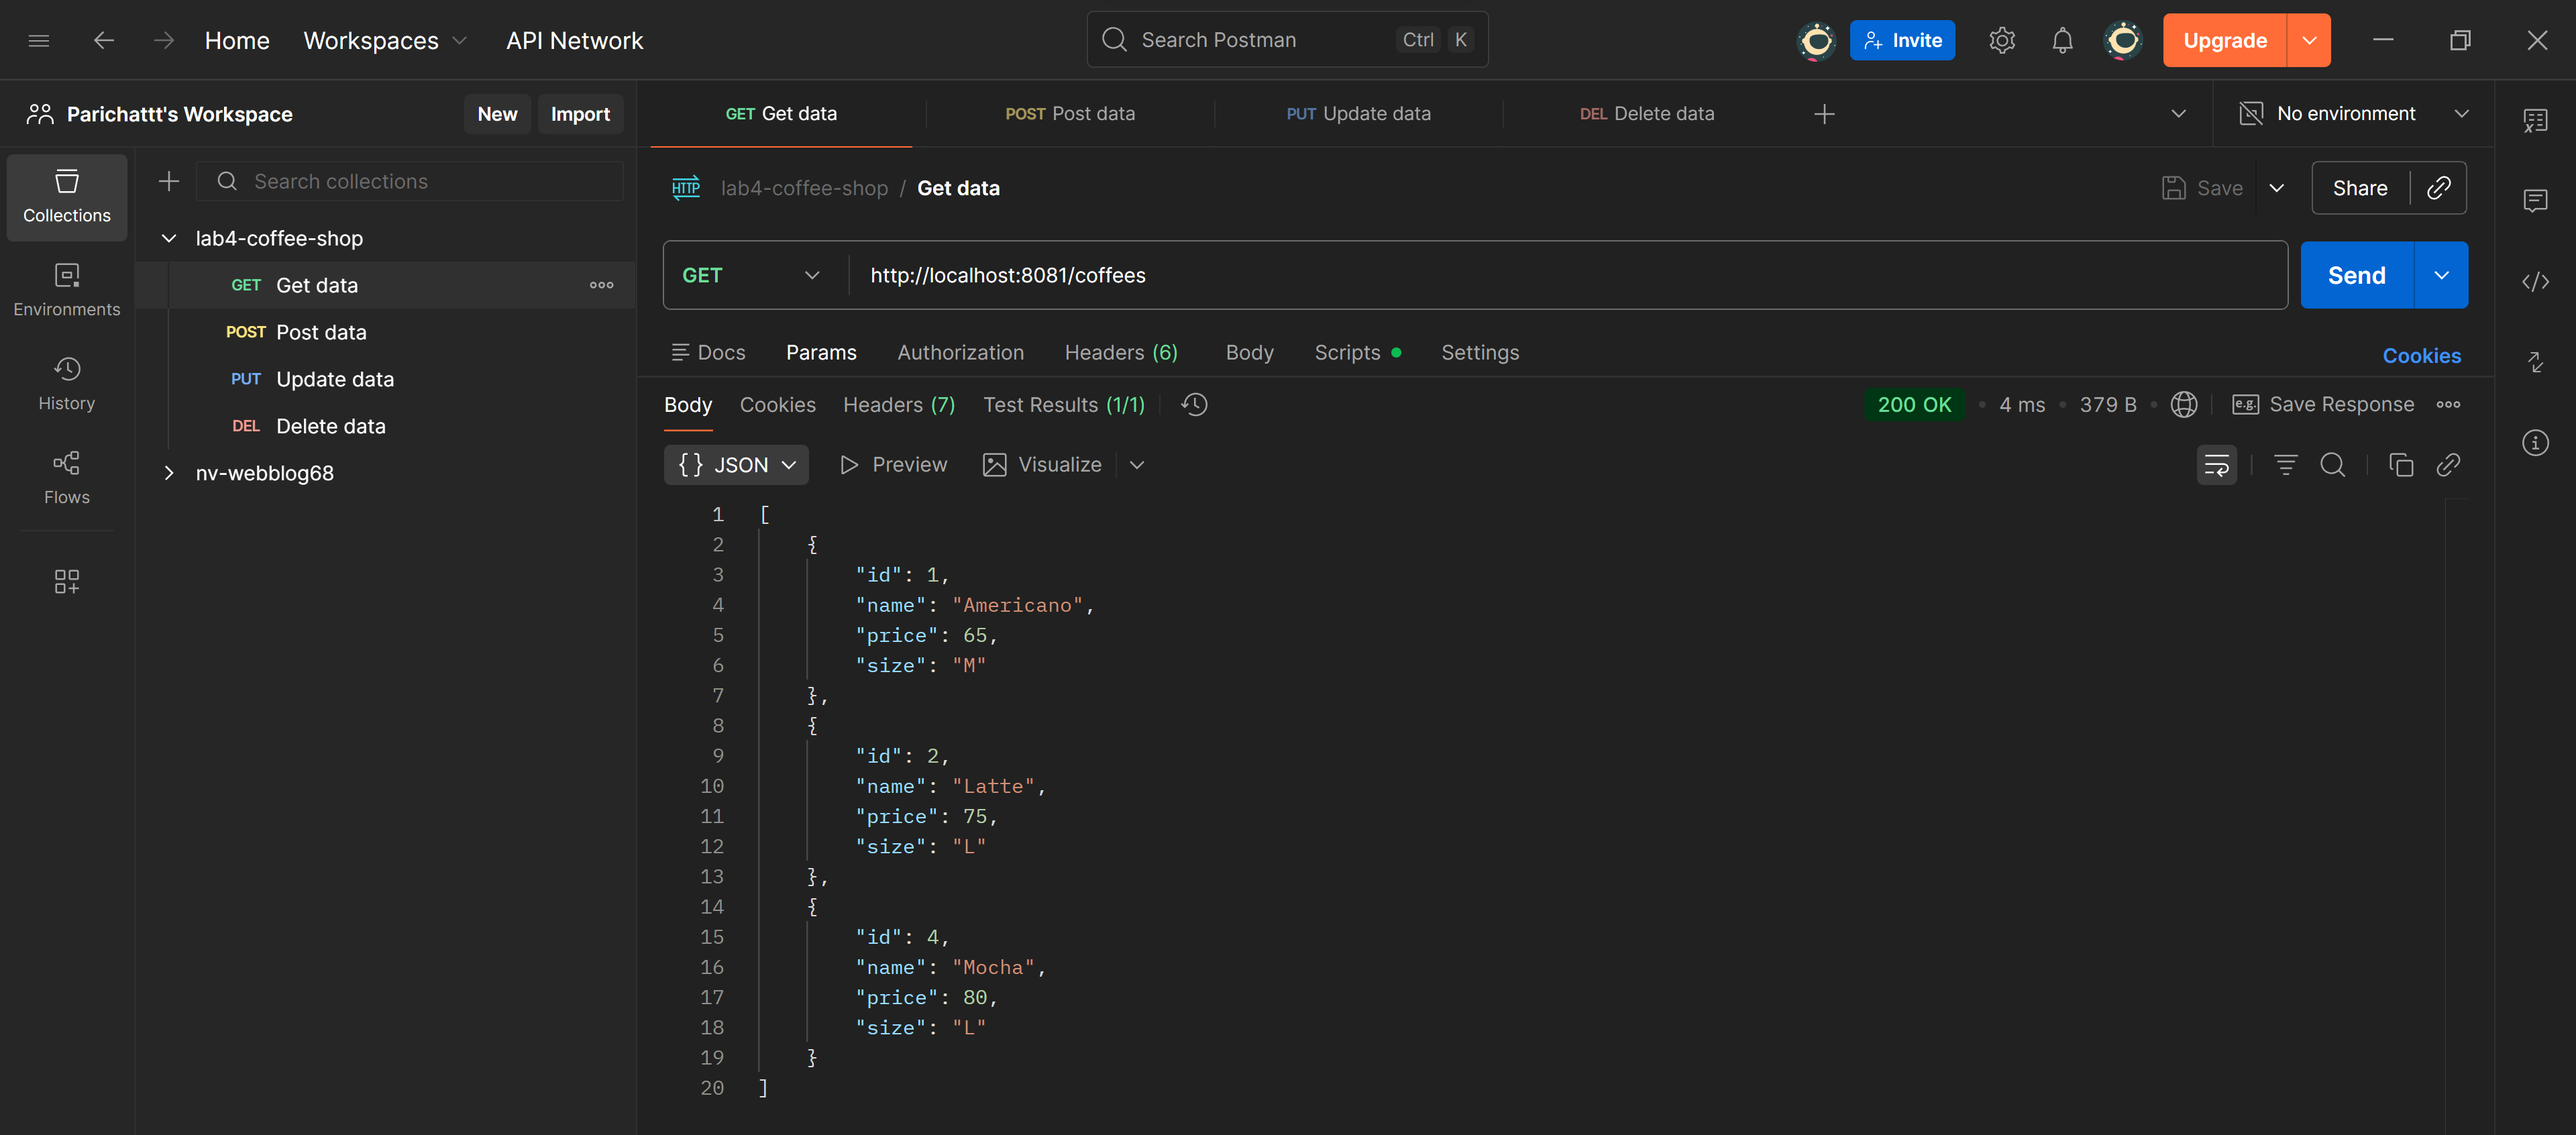
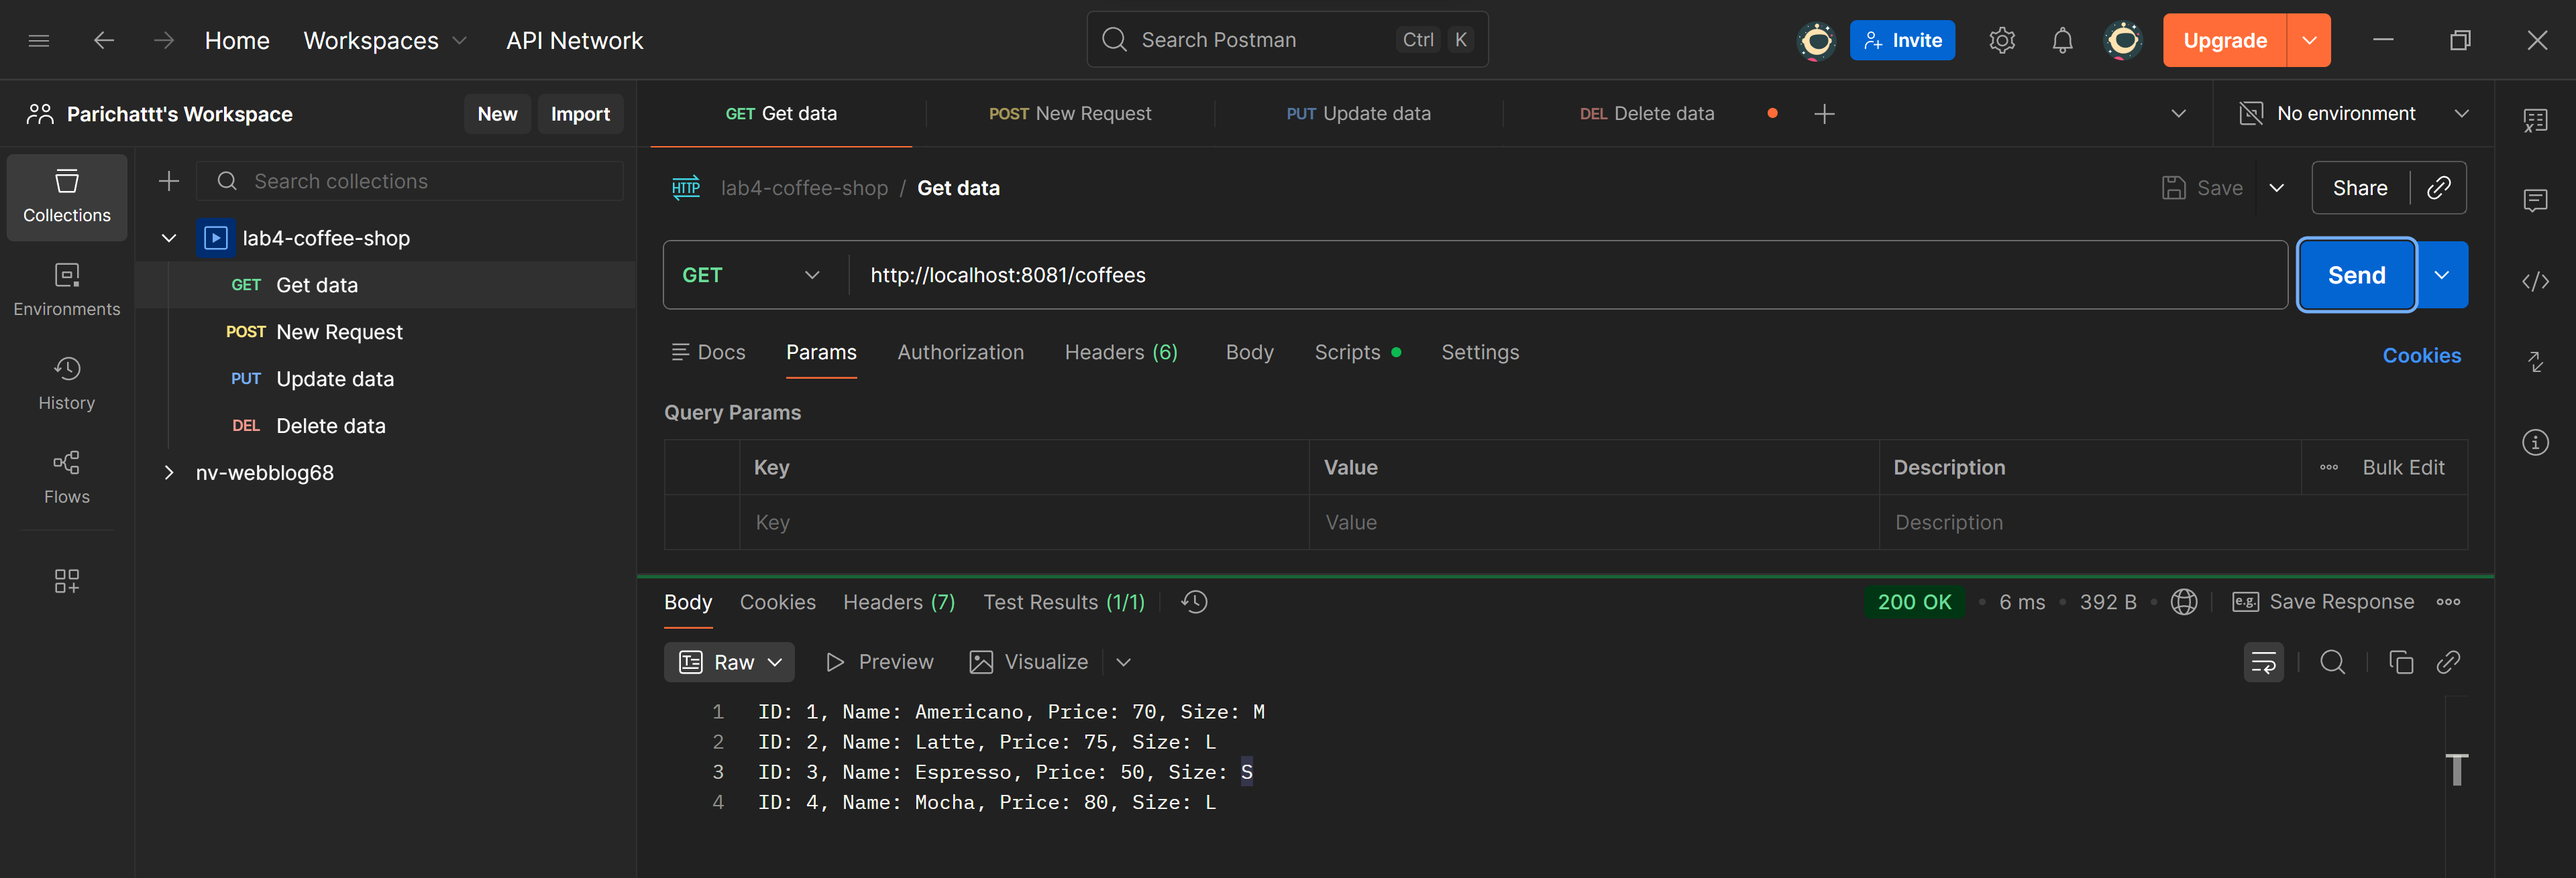
add .

diff --git a/sever/src/app.js b/sever/src/app.js
@@ -22,8 +22,14 @@ app.get('/status', function (req, res) {
 
 // 2. GET: เรียกดูรายการกาแฟทั้งหมด (Read All)
 app.get('/coffees', function (req, res) {
-    console.log('GET /coffees - เรียกรายการทั้งหมด')
-    res.send(coffees)
+    console.log('GET /coffees - เรียกรายการทั้งหมด');
+    
+    const plainTextList = coffees.map(c => 
+        `ID: ${c.id}, Name: ${c.name}, Price: ${c.price}, Size: ${c.size}`
+    ).join('\n');
+
+    res.setHeader('Content-Type', 'text/plain');
+    res.send(plainTextList); 
 })
 
 // 3. GET by ID: เรียกดูข้อมูลกาแฟตาม ID (Read Single)
@@ -33,10 +39,22 @@ app.get('/coffees/:coffeeId', function (req, res) {
 
     if (coffee) {
         console.log(`GET /coffees/${id} - พบรายการ`)
-        res.send(coffee)
+        const plainText = 
+            `id: ${coffee.id}\n` +
+            `name: ${coffee.name}\n` +
+            `price: ${coffee.price}\n` +
+            `size: ${coffee.size}`;
+        
+        res.setHeader('Content-Type', 'text/plain');
+        res.send(plainText) 
+        
     } else {
         console.log(`GET /coffees/${id} - ไม่พบรายการ`)
-        res.status(404).send({ message: `ไม่พบเมนูกาแฟ ID: ${id}` })
+        const plainText = 
+            `ไม่พบเมนูกาแฟ ID: ${id}\n`;
+        
+        res.setHeader('Content-Type', 'text/plain');
+        res.send(plainText) 
     }
 })
 
